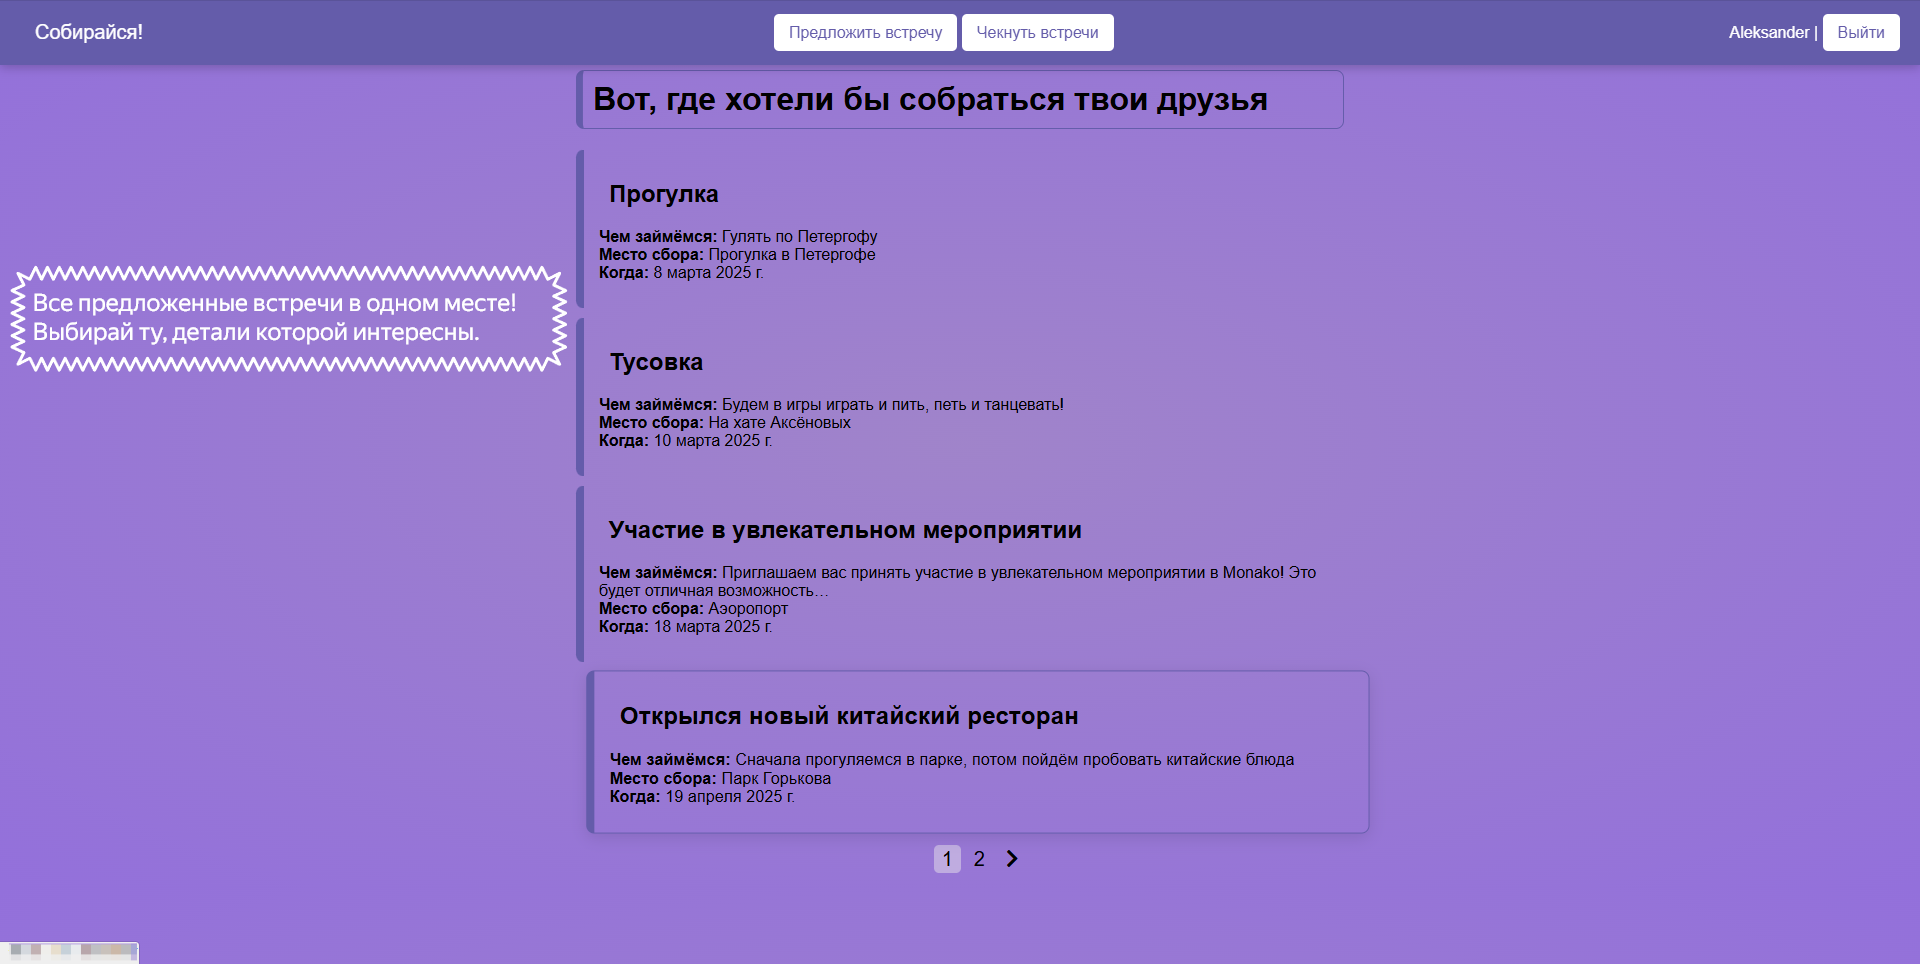
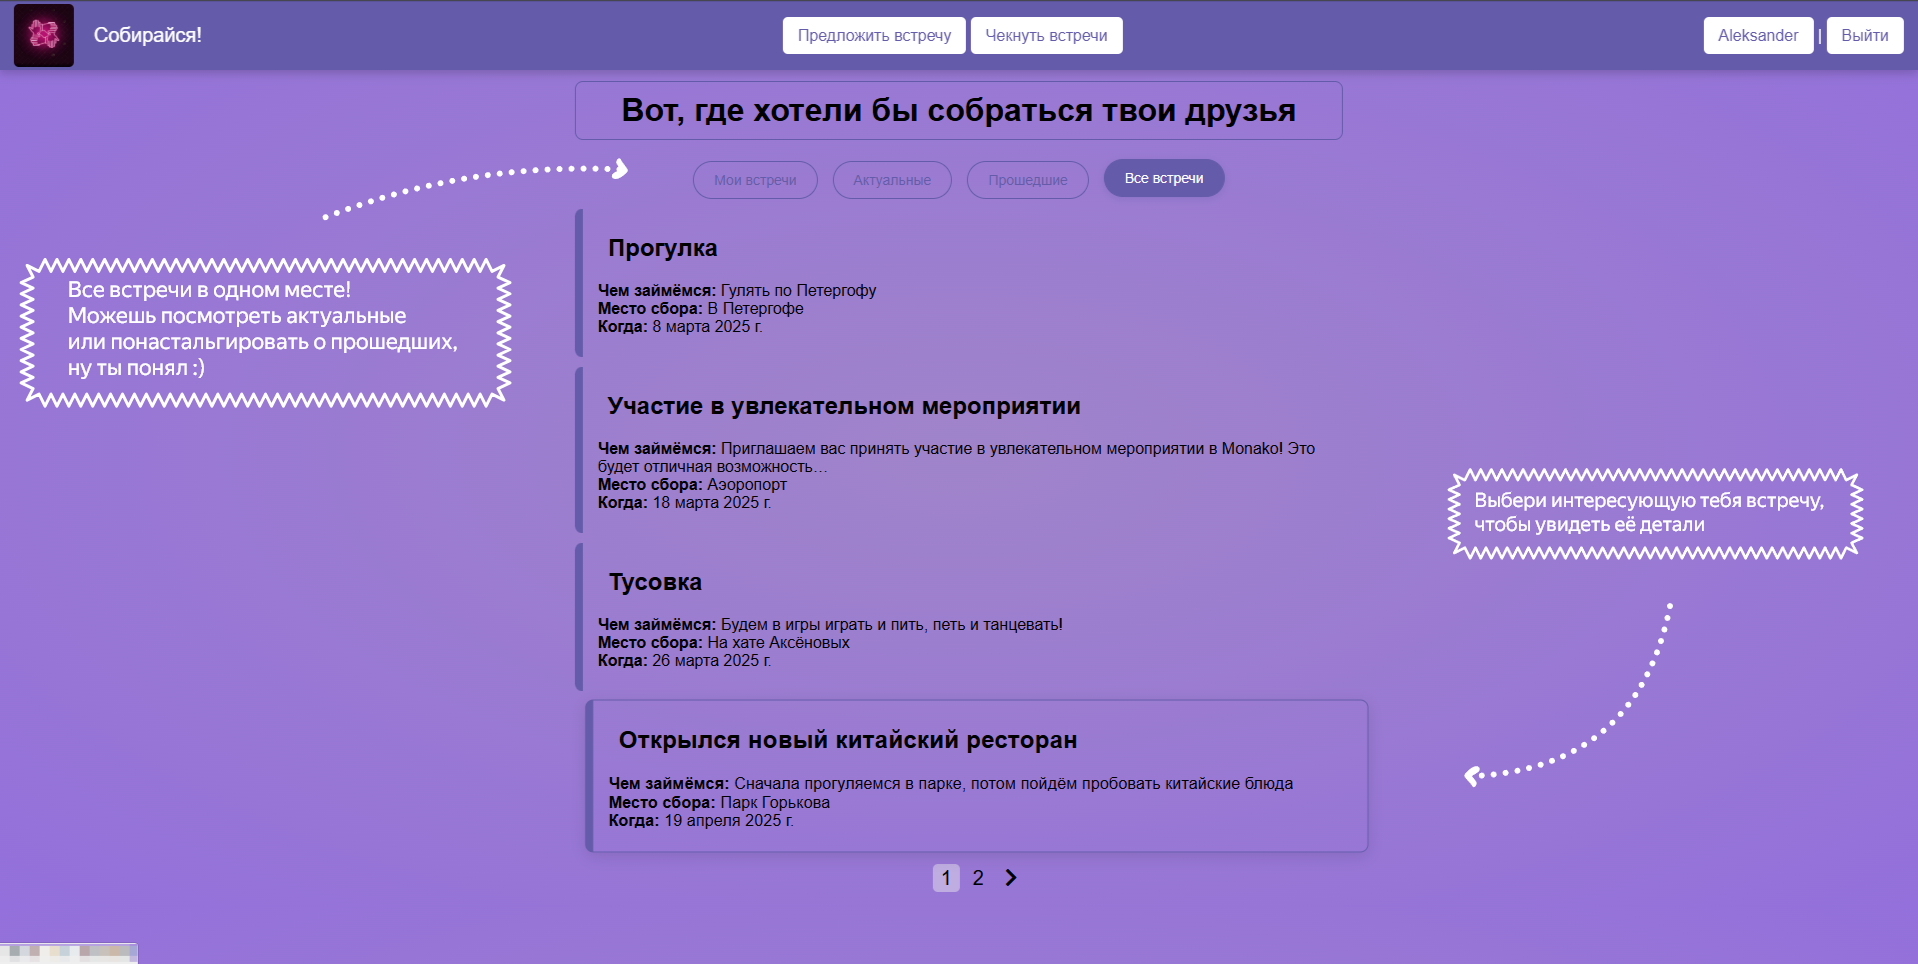
обновление слайдов

diff --git a/get_ready/meetings/static/meetings/css/style.css b/get_ready/meetings/static/meetings/css/style.css
@@ -15,7 +15,7 @@ body {
     display: flex; /* Используем flexbox для выравнивания элементов */
     justify-content: space-between; /* Размещаем элементы по краям */
     align-items: center; /* Выравнивание по центру по вертикали */
-    padding: 11px 20px; /* Внутренние отступы */
+    padding: 3px 15px; /* Внутренние отступы */
     box-shadow: 0 3px 10px rgba(0, 0, 0, 0.2); /* Тень под шапкой */
     z-index: 1000; /* Убедимся, что шапка выше остальных элементов */
 }
@@ -32,6 +32,12 @@ body {
     text-decoration: none;
 }
 
+.btn.site-name {
+    display: flex; /* для выравнивания элементов внутри */
+    align-items: center; /* Выравнивание по центру по вертикали */
+    gap: 20px; /* Расстояние между лого и текстом */
+}
+
 /* Стиль кнопки сайта */
 #home {
     background-color: #645CAA; /* Фиолетовый фон кнопки */
@@ -40,6 +46,7 @@ body {
     display: inline-block;
     transition: transform 0.3s ease;
     font-size: 20px;
+    padding: 0px;
 }
 
 /* увеличения кнопки домой при наведении */
@@ -54,8 +61,11 @@ body {
 
 /* Лого страницы */
 .header-logo {
-    width: auto;
-    height: 20px; /* Сохраняем пропорции */
+    width: 60px; /* Увеличьте ширину изображения */
+    height: auto; /* Поддерживает пропорции изображения */
+    border-radius: 5px;
+    object-fit: contain;
+    flex-shrink: 0; /* Запрещаем уменьшение */
 }
 
 /* Контент страницы */
